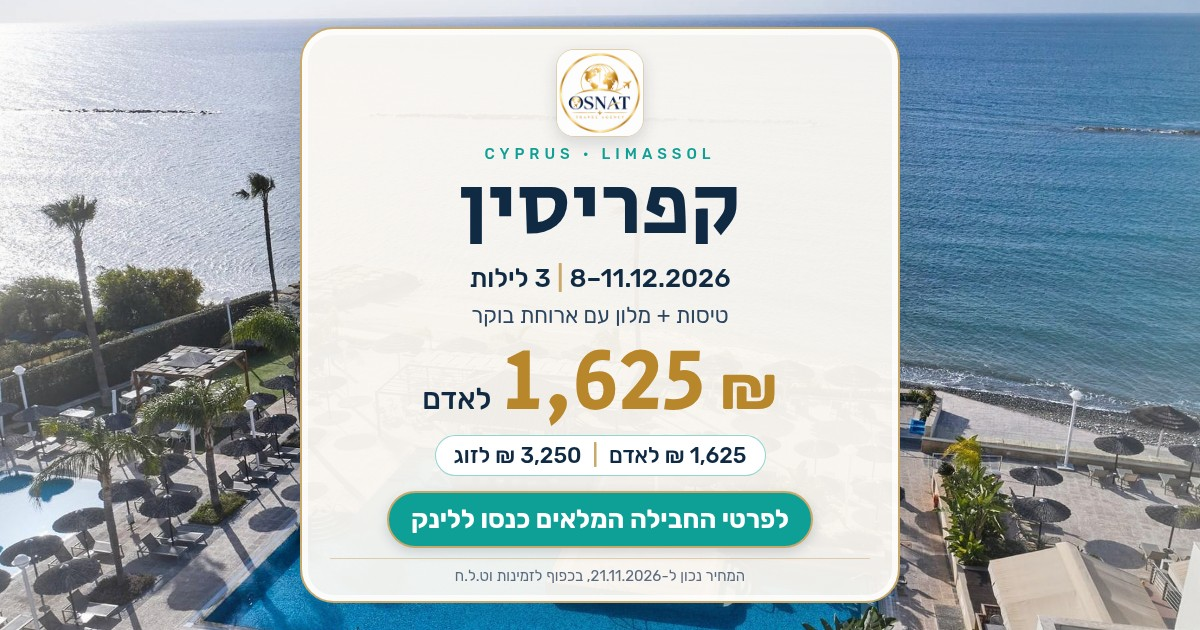
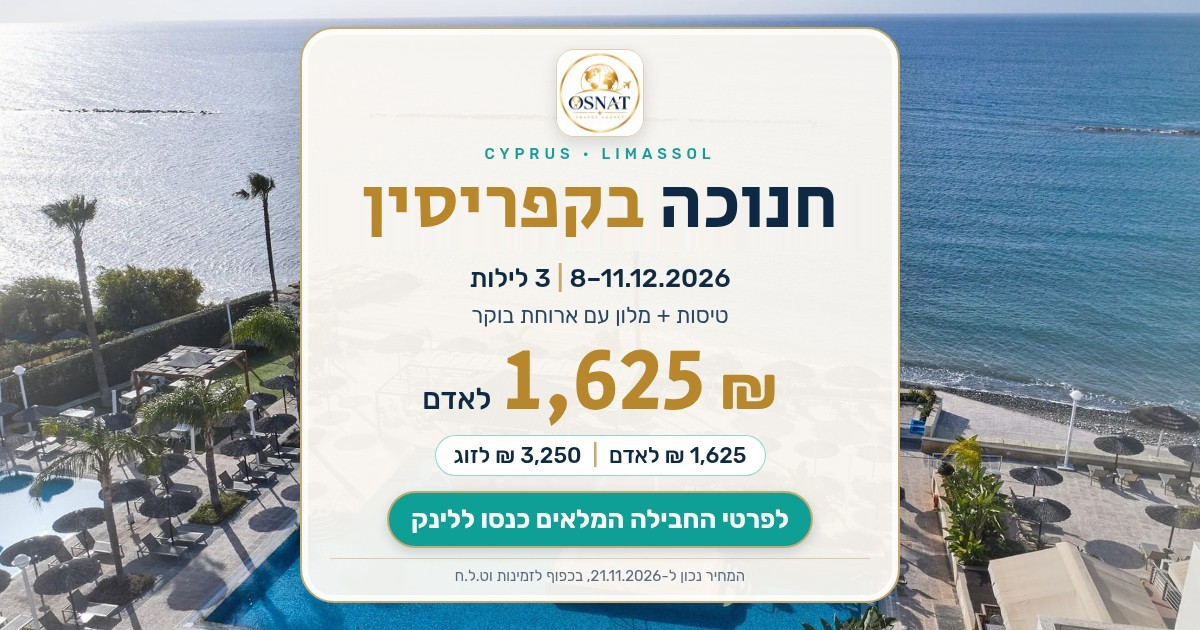
Cyprus: og image title חנוכה בקפריסין

Changed region(s): [[0.3083, 0.2714, 0.7092, 0.3921]]

diff --git a/preview/q-sszcvqf80w2ptffd/index.html b/preview/q-sszcvqf80w2ptffd/index.html
@@ -7,8 +7,8 @@
 <meta name="description" content="חנוכה בקפריסין 8–11.12.2026 · טיסות ארקיע במחלקת תיירים · Atlantica Miramare Beach 4★ עם ארוחת בוקר · 1,625 ₪ לאדם · 3,250 ₪ לזוג"/>
 <meta property="og:title" content="חנוכה בקפריסין"/>
 <meta property="og:description" content="8–11.12.2026 · טיסות ארקיע במחלקת תיירים · Atlantica Miramare Beach 4★ עם ארוחת בוקר · 1,625 ₪ לאדם · 3,250 ₪ לזוג · לפרטי החבילה המלאים כנסו ללינק"/>
-<meta property="og:image" content="https://osnat-travel.com/preview/q-sszcvqf80w2ptffd/og.jpg"/>
-<meta property="og:image:secure_url" content="https://osnat-travel.com/preview/q-sszcvqf80w2ptffd/og.jpg"/>
+<meta property="og:image" content="https://osnat-travel.com/preview/q-sszcvqf80w2ptffd/og.jpg?v=hk1"/>
+<meta property="og:image:secure_url" content="https://osnat-travel.com/preview/q-sszcvqf80w2ptffd/og.jpg?v=hk1"/>
 <meta property="og:image:width" content="1200"/>
 <meta property="og:image:height" content="630"/>
 <meta property="og:image:type" content="image/jpeg"/>
@@ -20,7 +20,7 @@
 <meta name="twitter:card" content="summary_large_image"/>
 <meta name="twitter:title" content="חנוכה בקפריסין"/>
 <meta name="twitter:description" content="8–11.12.2026 · טיסות ארקיע במחלקת תיירים · Atlantica Miramare Beach 4★ עם ארוחת בוקר · 1,625 ₪ לאדם · 3,250 ₪ לזוג"/>
-<meta name="twitter:image" content="https://osnat-travel.com/preview/q-sszcvqf80w2ptffd/og.jpg"/>
+<meta name="twitter:image" content="https://osnat-travel.com/preview/q-sszcvqf80w2ptffd/og.jpg?v=hk1"/>
 <meta name="theme-color" content="#FBF8F2"/>
 <meta name="viewport" content="width=device-width,initial-scale=1"/>
 <title>חנוכה בקפריסין | OSNAT TRAVEL AGENCY</title>

diff --git a/cyprus-hanukkah/index.html b/cyprus-hanukkah/index.html
@@ -5,8 +5,8 @@
 <meta name="description" content="חנוכה בקפריסין 8–11.12.2026 · טיסות ארקיע במחלקת תיירים · Atlantica Miramare Beach 4★ עם ארוחת בוקר · 1,625 ₪ לאדם · 3,250 ₪ לזוג"/>
 <meta property="og:title" content="חנוכה בקפריסין"/>
 <meta property="og:description" content="8–11.12.2026 · טיסות ארקיע במחלקת תיירים · Atlantica Miramare Beach 4★ עם ארוחת בוקר · 1,625 ₪ לאדם · 3,250 ₪ לזוג · לפרטי החבילה המלאים כנסו ללינק"/>
-<meta property="og:image" content="https://osnat-travel.com/cyprus-hanukkah/og.jpg"/>
-<meta property="og:image:secure_url" content="https://osnat-travel.com/cyprus-hanukkah/og.jpg"/>
+<meta property="og:image" content="https://osnat-travel.com/cyprus-hanukkah/og.jpg?v=hk1"/>
+<meta property="og:image:secure_url" content="https://osnat-travel.com/cyprus-hanukkah/og.jpg?v=hk1"/>
 <meta property="og:image:width" content="1200"/>
 <meta property="og:image:height" content="630"/>
 <meta property="og:image:type" content="image/jpeg"/>
@@ -18,7 +18,7 @@
 <meta name="twitter:card" content="summary_large_image"/>
 <meta name="twitter:title" content="חנוכה בקפריסין"/>
 <meta name="twitter:description" content="8–11.12.2026 · טיסות ארקיע במחלקת תיירים · Atlantica Miramare Beach 4★ עם ארוחת בוקר · 1,625 ₪ לאדם · 3,250 ₪ לזוג"/>
-<meta name="twitter:image" content="https://osnat-travel.com/cyprus-hanukkah/og.jpg"/>
+<meta name="twitter:image" content="https://osnat-travel.com/cyprus-hanukkah/og.jpg?v=hk1"/>
 <meta name="theme-color" content="#FBF8F2"/>
 <meta name="viewport" content="width=device-width,initial-scale=1"/>
 <title>חנוכה בקפריסין | OSNAT TRAVEL AGENCY</title>
